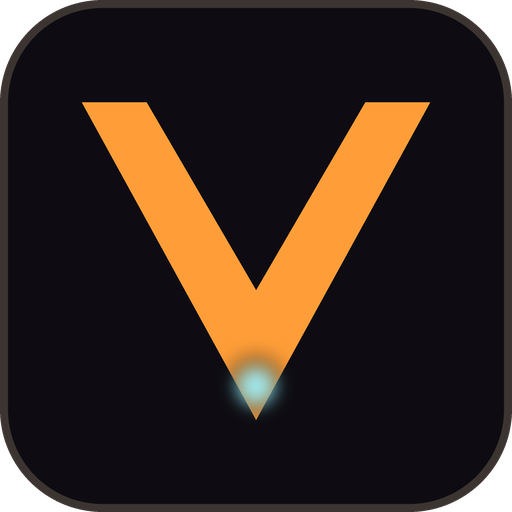
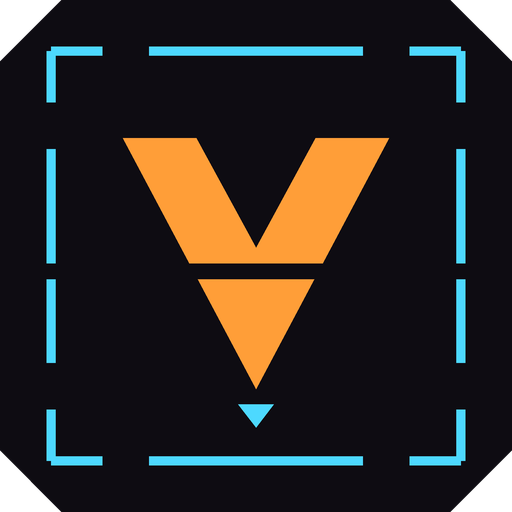
Redraw the Verge emblem from the tunnel's gate frame: hard corners, cyan and amber, a V cut by a slit
Claude-Session: https://claude.ai/code/session_01GXE5t2gfTv48tzrv2nN9tj

diff --git a/assets/branding/make_logo.py b/assets/branding/make_logo.py
@@ -5,25 +5,44 @@ FONT = "assets/fonts/Rajdhani-SemiBold.ttf"
 AMBER = (255, 158, 56)
 BG = (14, 12, 18)
 
+CYAN = (77, 217, 255)
+
+def chamfer(x0, y0, x1, y1, c):
+    return [(x0 + c, y0), (x1 - c, y0), (x1, y0 + c), (x1, y1 - c), (x1 - c, y1), (x0 + c, y1), (x0, y1 - c), (x0, y0 + c)]
+
 def emblem(size):
     s = size * 4
     img = Image.new("RGBA", (s, s), (0, 0, 0, 0))
     d = ImageDraw.Draw(img)
-    r = s * 0.2
-    d.rounded_rectangle([0, 0, s - 1, s - 1], radius=r, fill=BG + (255,), outline=(60, 52, 48, 255), width=max(1, s // 64))
-    # A spearhead "V": an outer chevron pointing down, a lit core.
+    # A hard-cornered plate, not a rounded app tile.
+    d.polygon(chamfer(0, 0, s - 1, s - 1, s * 0.12), fill=BG + (255,))
+    # The lane's gate frame, thin and cyan, broken at the corners like the
+    # arches in the tunnel, with the short ticks inside them.
+    m, bw, gap = s * 0.1, max(2, s // 56), s * 0.2
+    x0, y0, x1, y1 = m, m, s - m, s - m
+    for (ax, ay, bx, by) in [(x0 + gap, y0, x1 - gap, y0), (x0 + gap, y1, x1 - gap, y1),
+                             (x0, y0 + gap, x0, y1 - gap), (x1, y0 + gap, x1, y1 - gap)]:
+        d.rectangle([ax - bw / 2, ay - bw / 2, bx + bw / 2, by + bw / 2], fill=CYAN + (255,))
+    tick = s * 0.1
+    for sx, ex in [(x0, 1), (x1, -1)]:
+        for sy, ey in [(y0, 1), (y1, -1)]:
+            xa, xb = sorted([sx, sx + ex * tick])
+            ya, yb = sorted([sy, sy + ey * tick])
+            d.rectangle([xa, sy - bw / 2, xb, sy + bw / 2], fill=CYAN + (255,))
+            d.rectangle([sx - bw / 2, ya, sx + bw / 2, yb], fill=CYAN + (255,))
+    # The V: two heavy amber slabs meeting at the point, cut across by a
+    # slit, so it reads as a line you cross: the verge.
     cx = s / 2
-    top, base = s * 0.2, s * 0.82
-    w = s * 0.34
-    t = s * 0.11
-    outer = [(cx - w, top), (cx - w + t * 1.15, top), (cx, base - t * 2.3), (cx + w - t * 1.15, top), (cx + w, top), (cx, base)]
+    top, base = s * 0.27, s * 0.76
+    w = s * 0.26
+    t = s * 0.115
+    outer = [(cx - w, top), (cx - w + t * 1.25, top), (cx, base - t * 2.4), (cx + w - t * 1.25, top), (cx + w, top), (cx, base)]
     d.polygon(outer, fill=AMBER + (255,))
-    # a cyan spark at the tip, the lane's colour
-    glow = Image.new("RGBA", (s, s), (0, 0, 0, 0))
-    gd = ImageDraw.Draw(glow)
-    gd.ellipse([cx - s * 0.05, base - s * 0.05 - t * 0.6, cx + s * 0.05, base + s * 0.05 - t * 0.6], fill=(150, 240, 255, 230))
-    glow = glow.filter(ImageFilter.GaussianBlur(s * 0.02))
-    img = Image.alpha_composite(img, glow)
+    slit = s * 0.015
+    cut = top + (base - top) * 0.5
+    d.polygon([(0, cut), (s, cut), (s, cut + slit * 2), (0, cut + slit * 2)], fill=BG + (255,))
+    # Cyan spark under the point: the way out.
+    d.polygon([(cx - s * 0.035, base + s * 0.03), (cx + s * 0.035, base + s * 0.03), (cx, base + s * 0.075)], fill=CYAN + (255,))
     return img.resize((size, size), Image.LANCZOS)
 
 icon = emblem(512)
